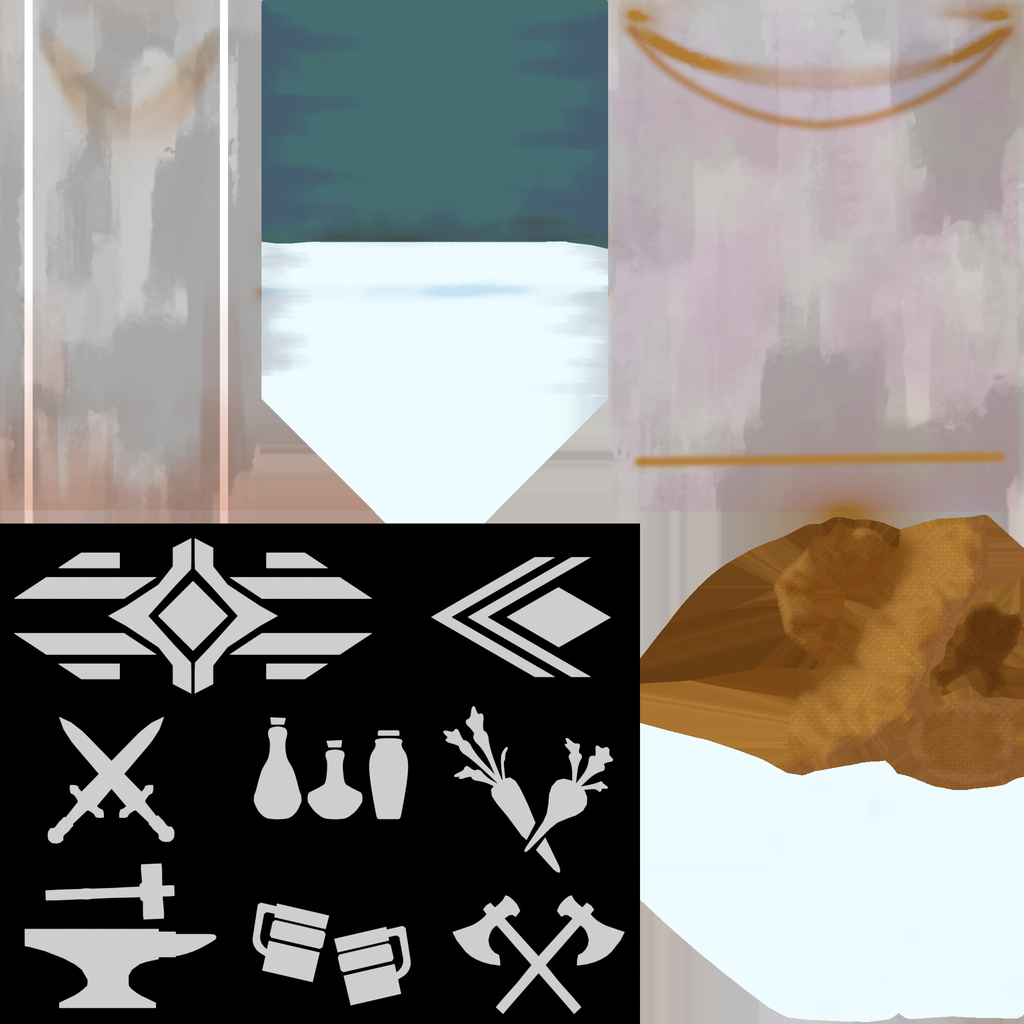
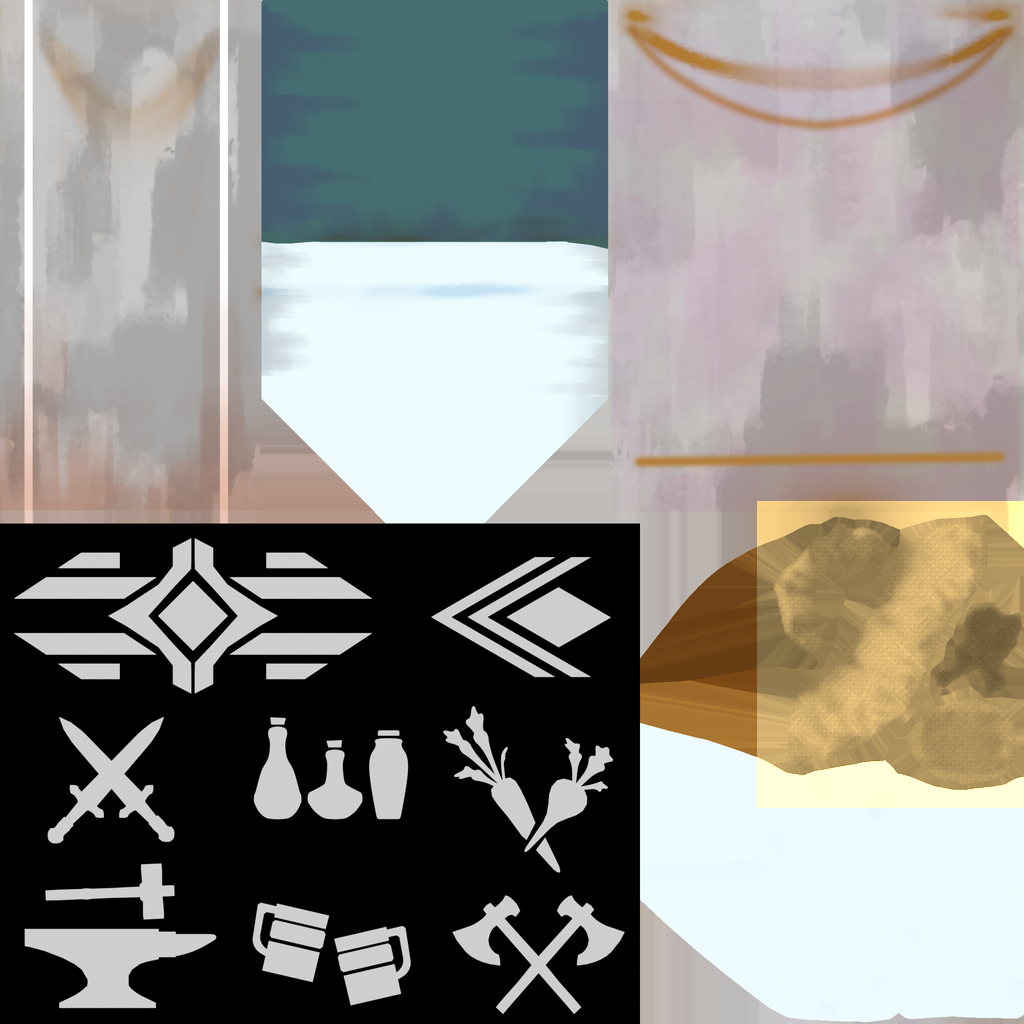
Espantalho: cores de estopa, madeira escura e corda clara; longe do Tomás
Ajustes da direção de arte: saco bege-palha (#b89a62), poste de madeira
escura (#5a3e26) e corda clara (#d8c79a), em vez de tudo laranja. Mudou
para (5; -1,2), entre a ferraria, os caixotes e a estrada, a 4,6 m do
Tomás: de frente, os nomes não se encostam mais.

Claude-Session: https://claude.ai/code/session_01P1kkg5bV3PrJFaRZURrWHa

Changed region(s): [[0.7188, 0.4688, 1.0, 0.8125]]

diff --git a/shared/dados.js b/shared/dados.js
@@ -308,9 +308,10 @@ export const MAPA_CLAREIRA = {
   inimigos: [],
   caca: CACA,
   mina: MINA,
-  // espantalho de treino ao lado da ferraria, na grama entre a parede dela e a estrada larga (fora dos caminhos);
+  // espantalho de treino ao lado da ferraria, na grama entre a parede dela, os caixotes e a estrada larga (fora dos
+  // caminhos), a 4,6 m do Tomás para os nomes não se encostarem (direção de arte);
   // virado para a estrada, de onde o herói chega. O v dele vem depois das vagas dos campos de caça.
-  treino: [{ id: 'espantalho1', tipo: 'espantalho', x: 2.2, z: -1.4, ry: -0.74 }],
+  treino: [{ id: 'espantalho1', tipo: 'espantalho', x: 5, z: -1.2, ry: -0.8 }],
   // NPCs da vila: personagens anime (VRoid CC0) com cabelo, roupa e tamanho próprios. funcao: o que o botão Falar faz (veja Simulacao.falar e client/src/main.js)
   // acoes: o que aparece no menu do NPC no app (botão de interação, como no Quimera); 'Conversar' sempre aparece.
   // 'vender' = ele compra itens da mochila (o servidor confere: Simulacao.pertoDeQuemCompra)

diff --git a/README.md b/README.md
@@ -94,7 +94,7 @@ O servidor é quem decide: recarga, mana, dano e posição. O cliente só manda 
 | Vila: texturas das casas (palha, reboco, enxaimel, pedra, portas, venezianas), casca e folhas das árvores, caminho de terra e calçamento da praça. As casas, a ferraria, o poço e as árvores são montados em código (client/src/vila.js) | Poly Haven, repositório New-Game-Anime-fontes | CC0 |
 | Espada (o brilho mágico é feito no código) | Fantasy Props MegaKit (Quaternius) | CC0 |
 | Picareta e machado das profissões (godot-prototipo/ferramentas3d/, texturas reduzidas para 512 px) | Fantasy Props MegaKit (Quaternius), repositório New-Game-Anime-fontes (pacotes_cc0/) | CC0 |
-| Espantalho de treino ao lado da ferraria (godot-prototipo/treino3d/, modelo Dummy; cor em 1024 px, relevo e ORM em 512 px) | Fantasy Props MegaKit (Quaternius), repositório New-Game-Anime-fontes (pacotes_cc0/Fantasy_Props_MegaKit) | CC0 |
+| Espantalho de treino ao lado da ferraria (godot-prototipo/treino3d/, modelo Dummy; cor em 1024 px, relevo e ORM em 512 px; saco, poste e corda repintados em estopa, madeira escura e corda clara) | Fantasy Props MegaKit (Quaternius), repositório New-Game-Anime-fontes (pacotes_cc0/Fantasy_Props_MegaKit) | CC0 |
 | Ícones de materiais e profissões (godot-prototipo/icones/it_*.svg, pf_*.svg, vigor.svg) | Desenhados para o jogo | Próprios |
 | Cajado mágico (madeira, anéis de bronze e cristal) | feito no código, com a textura medieval_wood da Poly Haven | CC0 / próprio |
 | Lobo (montaria de teste): modelo, esqueleto (rabo de 5 ossos), mechas de pelo do rabo e 6 animações | gerado por IA (desenho FLUX.1-schnell, Apache 2.0; 3D TRELLIS, MIT) e montado no Blender por ferramentas/monstros-ia | próprio (saída das IAs sem restrição de uso comercial) |
